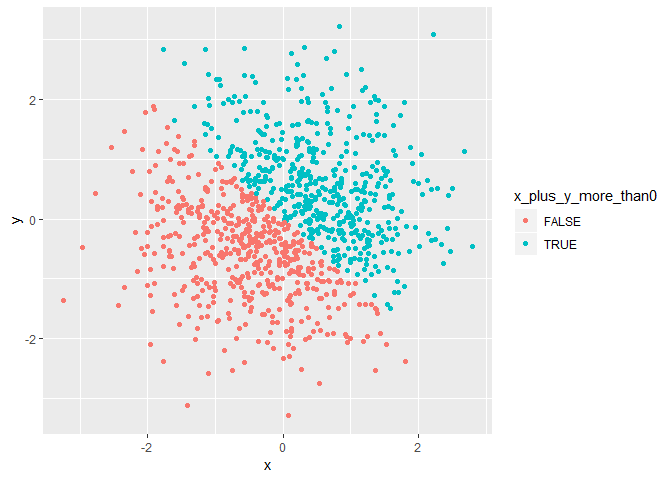
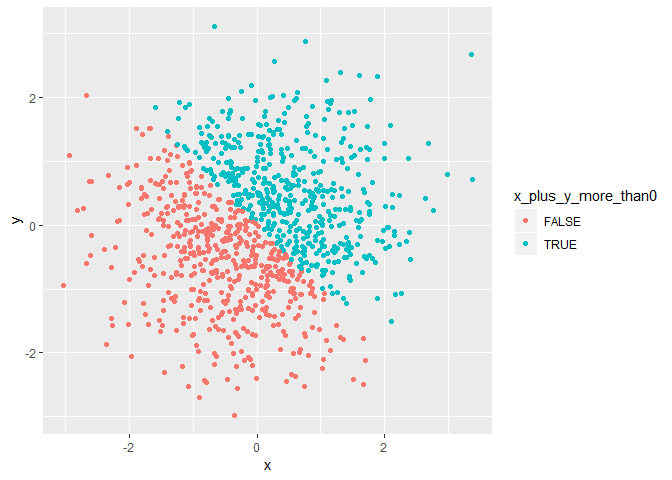
Change directory of plot

diff --git a/P8105_hw1_jy2947.md b/P8105_hw1_jy2947.md
@@ -19,13 +19,13 @@ dataframe = tibble(
 mean(dataframe$sample)
 ```
 
-    ## [1] 1.814013
+    ## [1] 2.378582
 
 ``` r
 mean(dataframe$morethan2)
 ```
 
-    ## [1] 0.5
+    ## [1] 0.7
 
 ``` r
 mean(dataframe$p1_cha)
@@ -106,7 +106,7 @@ norm_distri = tibble(
 )
 ```
 
-The data frame has 1000 rows and 5 columns. The mean of x is 0.0139859. The median of x is 0.0562096. The proportion of cases for which the logical vector is `TRUE` is 0.497.
+The data frame has 1000 rows and 5 columns. The mean of x is -0.0074718. The median of x is -0.0106807. The proportion of cases for which the logical vector is `TRUE` is 0.495.
 
 The following code chunk creates the scatter plot of `x_plus_y_more_than0` in `norm_distri` and saves the plot in a pdf file.
 
@@ -117,8 +117,7 @@ ggplot(norm_distri, aes(x = x, y = y, color = x_plus_y_more_than0)) + geom_point
 ![](P8105_hw1_jy2947_files/figure-markdown_github/scatter_plot_logical-1.png)
 
 ``` r
-dir.create('./plot')
-ggsave("hw1_p2_scatter_plot.pdf", path = './plot')
+ggsave("hw1_p2_scatter_plot.pdf")
 ```
 
     ## Saving 7 x 5 in image
